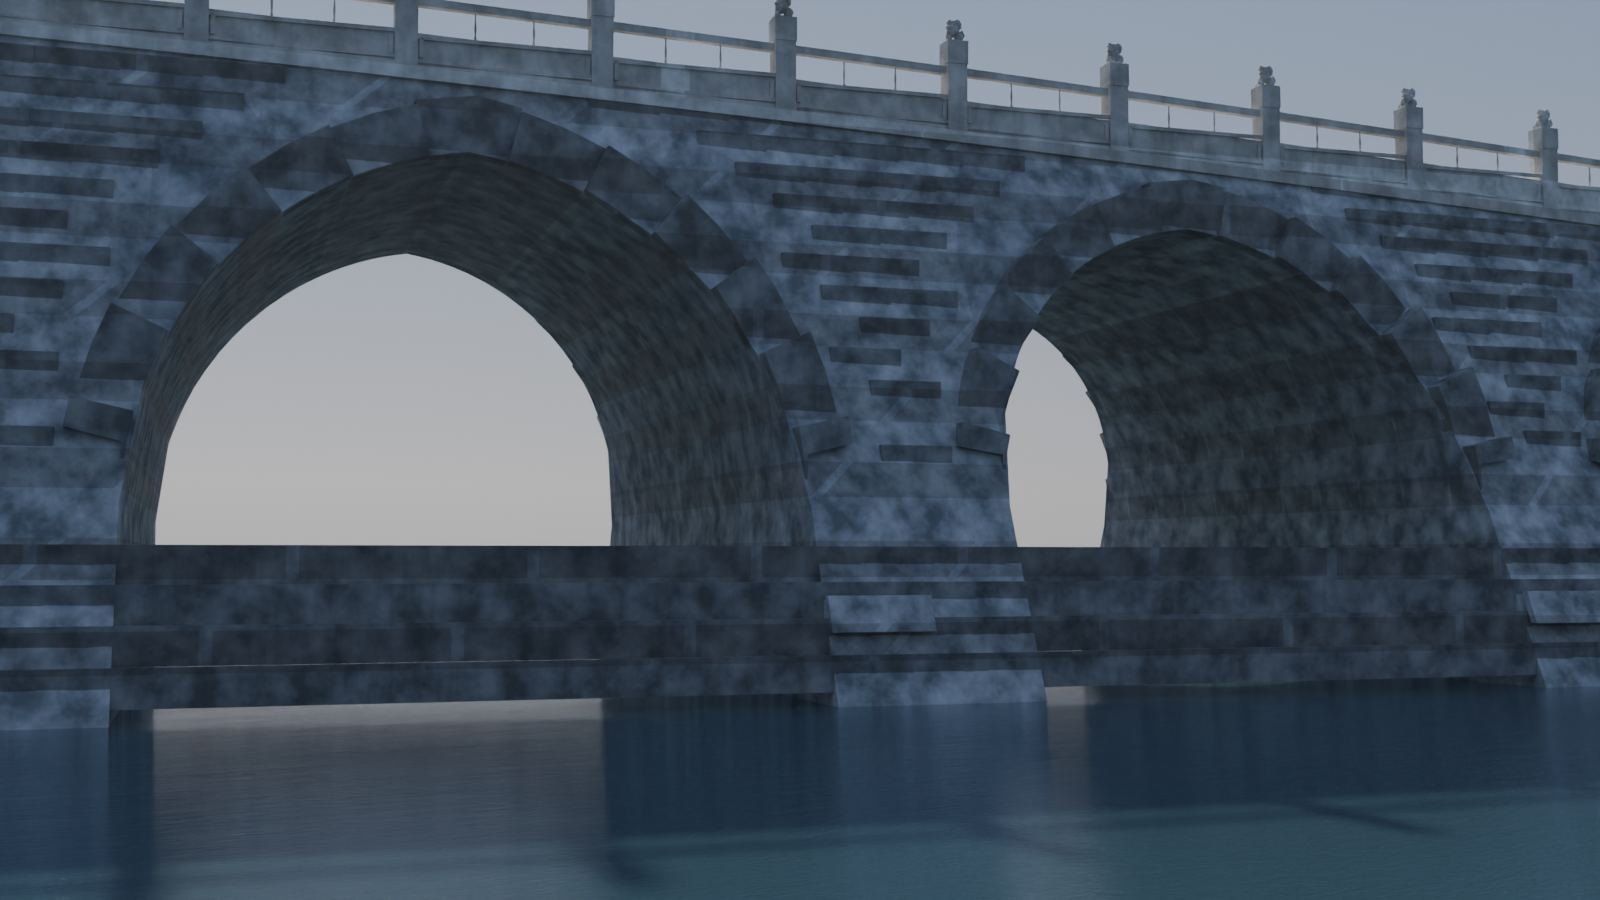
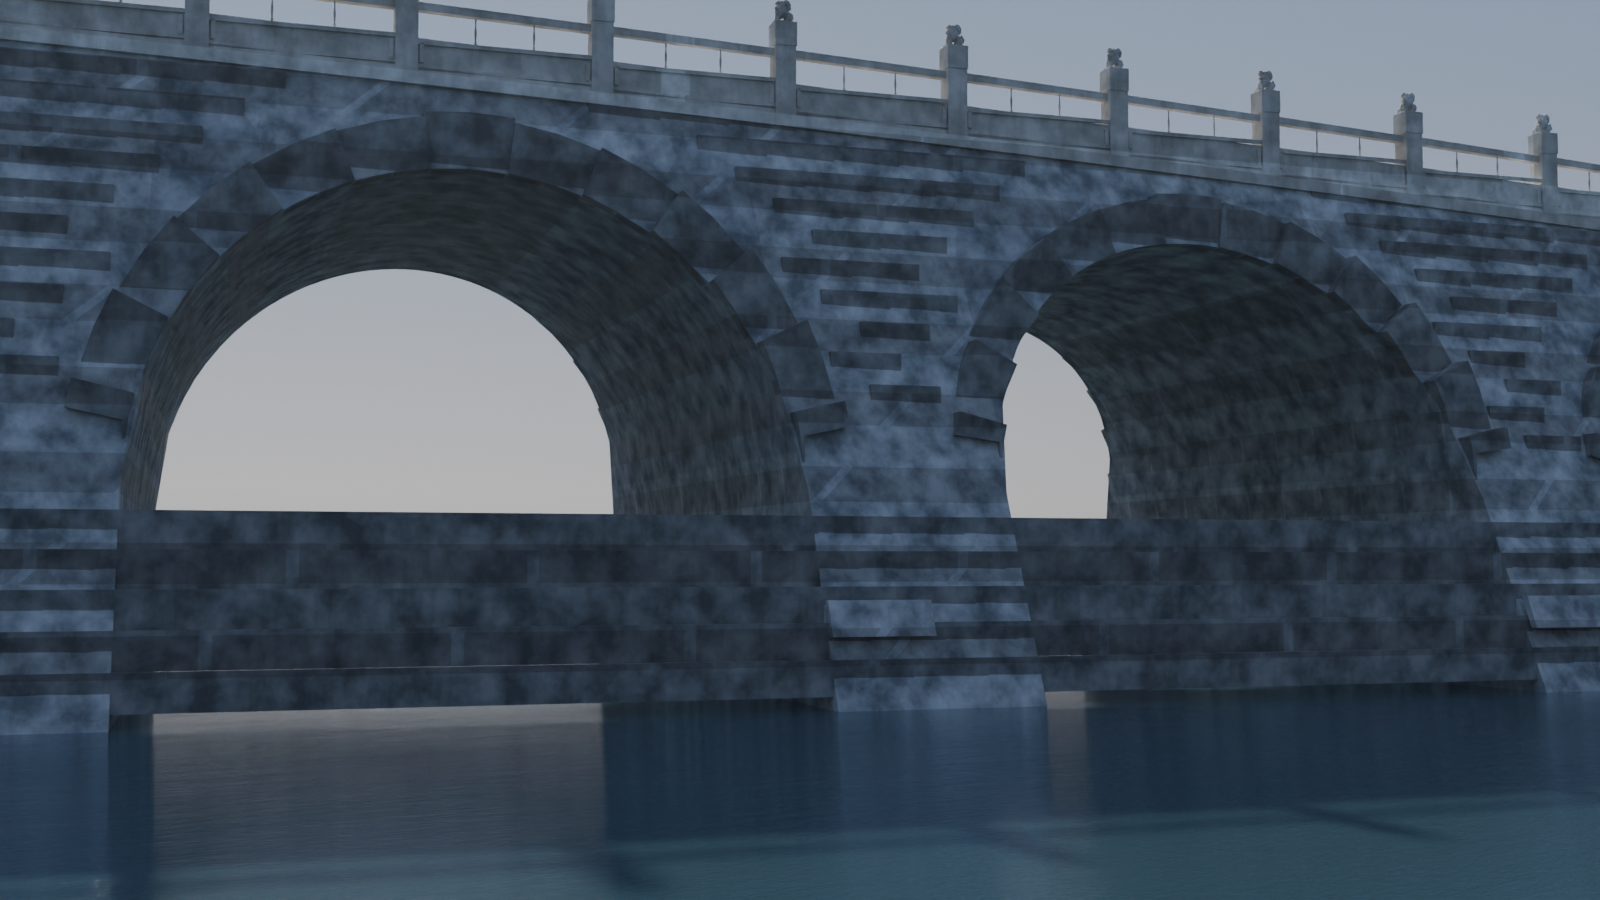
feat(e30): M14刀1 拱收钝——ratio 0.61->0.56(中央)+soft-min冠顶钝化(双圆心下包络, s=0.06b, 凸顶C1肩点零污染, 数值自检过); L2过, 与img_0439对照尖度已合真桥

diff --git a/e30_shikongqiao_video/3d/bridge_geom2.py b/e30_shikongqiao_video/3d/bridge_geom2.py
@@ -44,7 +44,7 @@ def arch_rise_ratio(i):
     """M12 P0-2: 矢跨比剖面。真桥中央拱高瘦(≈0.70)、端孔矮(≈0.50), 非恒定半圆。
     照片实测: 中央孔洞口高/宽≈1.0-1.1(含起拱线以上矢高+以下到水面), 冠部收尖。"""
     u = abs(2 * i - (N_SPAN - 1)) / (N_SPAN - 1)   # 0=中央, 1=端
-    return 0.61 - 0.15 * u
+    return 0.56 - 0.10 * u
 
 
 def arch_rise(i):
@@ -61,21 +61,46 @@ def arch_e(a, b):
     return max(0.0, (b * b - a * a) / (2.0 * a)) if a > 1e-6 else 0.0
 
 
-def arch_z(x, xc, springer, a, b):
-    """两圆心尖拱 intrados 高度 z(x), x∈[xc-a, xc+a]。左半圆心(xc+e)、右半(xc-e)。"""
+# [六审四刀#1] 冠顶钝化: 尖拱 intrados = 两圆心圆的**下包络** min(h1,h2),
+# cusp 在两弧交点(冠)。soft-min(lo - s*ln(1+e^{-(hi-lo)/s})) 把尖角圆化:
+# 冠顶降 s*ln2 且斜率归 0(凸顶 C1), 离冠 (hi-lo)>>s 处精确回到原弧——
+# 肩点/单调性零污染。s=0.06b(六审: 真桥"圆弧主导+轻微收尖", 非哥特 cusp)。
+CROWN_BLUNT_S = 0.06
+
+
+def _arc_pair(x, xc, a, b):
+    """左右两圆心圆在 x 处的高度与斜率。左圆心(xc+e)弧管左半, 右(xc-e)管右半;
+    对侧远端根号参数截 0(该处由 min 取到本侧弧, 截值不影响包络)。"""
     e = arch_e(a, b)
     R = a + e
-    cc = (xc + e) if x <= xc else (xc - e)
-    dd = R * R - (x - cc) ** 2
-    return springer + (math.sqrt(dd) if dd > 0 else 0.0)
+    out = []
+    for cc in (xc + e, xc - e):
+        dd = R * R - (x - cc) ** 2
+        if dd > 1e-9:
+            sq = math.sqrt(dd)
+            out.append((sq, -(x - cc) / sq))
+        else:
+            out.append((0.0, 0.0))
+    return out
+
+
+def arch_z(x, xc, springer, a, b):
+    """两圆心尖拱 intrados 高度 z(x), x∈[xc-a, xc+a], 冠顶 soft-min 钝化。"""
+    (h1, _), (h2, _) = _arc_pair(x, xc, a, b)
+    s = CROWN_BLUNT_S * b
+    lo, hi = (h1, h2) if h1 <= h2 else (h2, h1)
+    return springer + lo - s * math.log(1.0 + math.exp((lo - hi) / s))
 
 
 def arch_dzdx(x, xc, springer, a, b):
-    e = arch_e(a, b)
-    R = a + e
-    cc = (xc + e) if x <= xc else (xc - e)
-    dd = R * R - (x - cc) ** 2
-    return (-(x - cc) / math.sqrt(dd)) if dd > 1e-6 else 0.0
+    (h1, d1), (h2, d2) = _arc_pair(x, xc, a, b)
+    s = CROWN_BLUNT_S * b
+    if h1 <= h2:
+        lo, hi, dlo, dhi = h1, h2, d1, d2
+    else:
+        lo, hi, dlo, dhi = h2, h1, d2, d1
+    w = math.exp((lo - hi) / s)
+    return (dlo + w * dhi) / (1.0 + w)
 
 SPANS = list(SPAN_DISTINCT) + list(reversed(SPAN_DISTINCT[:-1]))
 PIER_X = []
